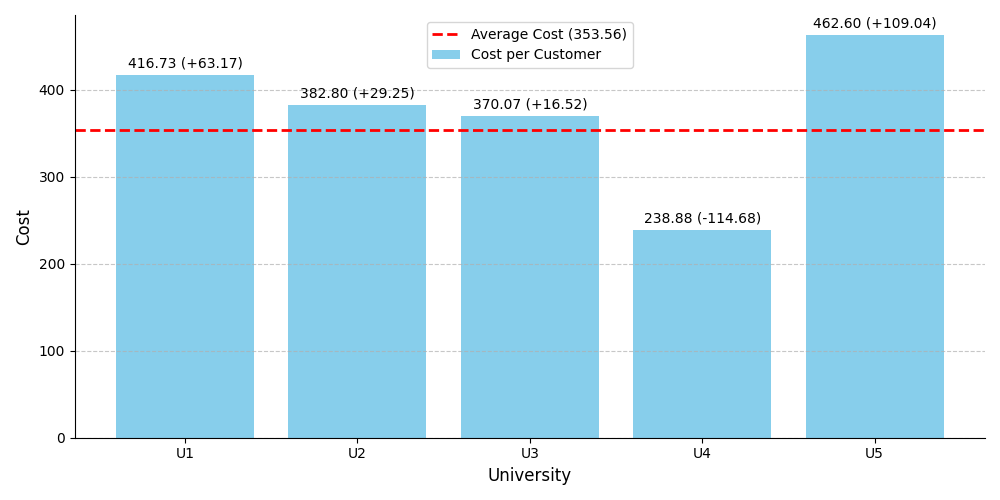
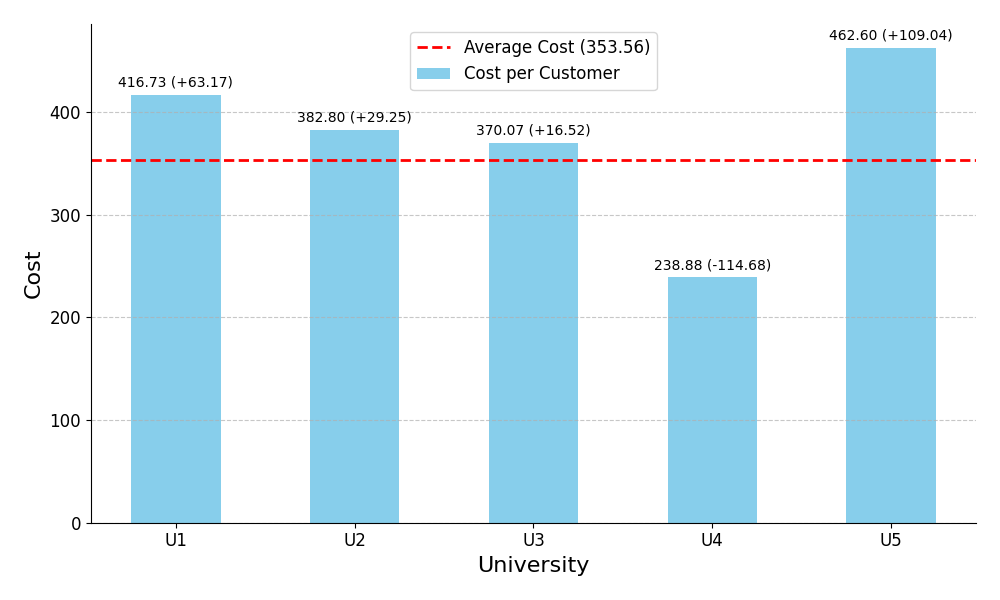
Exercises in 1.2

Changed region(s): [[0.031, 0.03, 0.992, 0.96], [0.403, 0.03, 0.651, 0.15], [0.0, 0.42, 0.062, 0.51]]

diff --git a/main.py b/main.py
@@ -2,7 +2,7 @@ from DataLoading import *
 from InitialCostModel import costModel_complete
 from Initial_Cost_Model_simple import costModel_PW_WU
 from CostsCalc import Costs
-from allocateCosts import allocateCost
+from allocateCosts import AllocateCost
 from Collab_2_1_b_c import collaboration
 from compete_2_2 import Competition
 import time
@@ -13,9 +13,8 @@ vCost = varCost('./given_data/variablecosts.xlsx')
 fCost = fixedCost('./given_data/fixedcosts.xlsx') 
 # demandData.printFile()
 
-# start = time.time()
 
-simpleModel = costModel_PW_WU(
+model_UB = costModel_PW_WU(
     W = demandData.W[:2],  ## Removes the cross docks
     P = demandData.P,
     cap = demandData.capacity,
@@ -27,89 +26,134 @@ simpleModel = costModel_PW_WU(
     supply = demandData.supply
 )
 
-model  = simpleModel.model()
+model  = model_UB.model()
+model_UB.summarize_results()
+
+model_UB.visualize_network(model)
 
 """
 1.2a - COMPARE INDIVIDUAL UNIVERSITIES WITH THE SOLUTION OF ALL UNIVERSITIES
 """
-U = simpleModel.U
-uni_costs = {key: 0 for key in U + ['Total']}
+U = model_UB.U
+modelCosts = Costs(model_UB)
+uni_costs = {key: 0 for key in U}
 for u in U:
-    simpleModel.set_U([u])
-    model_one_uni = simpleModel.model()
-    obj = model_one_uni.ObjVal
+    obj = modelCosts.calculateCostPerUniversity(u)
     uni_costs[u] = obj
 
-uni_costs['Total'] = model.objVal
+modelCosts.costs_per_uni = uni_costs
 
-uni_numbers = [key for key in uni_costs if isinstance(key, int)]
+
+uni_numbers = [key for key in uni_costs]
 uni_values = [uni_costs[key] for key in uni_numbers]
-uni_numbers = [simpleModel.map_pwu(num) for num in uni_numbers]
-total_cost = uni_costs['Total']
+uni_numbers = [model_UB.map_pwu(num) for num in uni_numbers]
+total_cost = model.objVal
 average_cost = total_cost / len(uni_numbers)
 
-# Plotting
-plt.figure(figsize=(10,5))
+# Plotting the single university costs and comparing them to total_cost*0.2 (i.e. expected average)
+plt.rcParams.update({'font.size': 16})
 
-# Bar plot for university costs
-bars = plt.bar(uni_numbers, uni_values, color='skyblue', label='Cost per Customer')
-
-# Dashed line for average cost
+plt.figure(figsize=(10,6))
+bars = plt.bar(uni_numbers, uni_values, color='skyblue', label='Cost per Customer', width=0.5)
 plt.axhline(y=average_cost, color='red', linestyle='--', linewidth=2, label=f'Average Cost ({average_cost:.2f})')
 
-# Add data labels for deviation
 for bar, cost in zip(bars, uni_values):
     deviation = cost - average_cost
     deviation_label = f'{cost:.2f} ({deviation:+.2f})'
     plt.text(bar.get_x() + bar.get_width() / 2, bar.get_height() + 5, deviation_label, 
              ha='center', va='bottom', fontsize=10, color='black')
 
-# Adding labels and title
-plt.xlabel('University', fontsize=12)
-plt.ylabel('Cost', fontsize=12)
-plt.xticks(uni_numbers, fontsize=10)
-plt.yticks(fontsize=10)
+plt.xlabel('University')
+plt.ylabel('Cost')
+plt.xticks(uni_numbers, fontsize=12)
+plt.yticks(fontsize=12)
 
 ax = plt.gca()
 
 ax.spines['top'].set_visible(False)
 ax.spines['right'].set_visible(False)
 
-plt.legend(fontsize=10)
+plt.legend(fontsize=12)
 
-# Show grid for better visualization
 plt.grid(axis='y', linestyle='--', alpha=0.7)
-
-# Show the plot
 plt.tight_layout()
 plt.savefig('figures/universities_of_total.png')
 plt.show()
-# simpleModel.set_U(U)
-# # simpleModel.summarize_results()
 
-# #simpleModel.visualize_results()
-# simpleModel.visualize_network(model)
+model_UB.set_U(U)
 
-# end = time.time()
+"""
+# 1.2c - Fairly distribute savings accross all universities
+# """
+# def distributeCosts(company, model):
+#     shapleyValues = AllocateCost(demandData.U, company)
+#     print(shapleyValues.shapleySavings)
 
-# print(f'Time for Model: {(end-start)}')
+#     data = pd.DataFrame({
+#         "University": [model.map_pwu(u) for u in demandData.U],
+#         "Initial Cost": list(shapleyValues.aloneCosts.values()),
+#         "Shapley Cost": list(shapleyValues.shapleyCosts.values())
+#     })
+#     data["Savings"] = data["Initial Cost"] - data["Shapley Cost"]
+#     data["% Savings"] = (data["Savings"] / data["Initial Cost"]) * 100
 
-# modelCosts = Costs(simpleModel)
+#     print(data.round(2))
 
-# uniCosts = pd.DataFrame(modelCosts.U_Costs).transpose()
-# uniCosts.columns = ['Total Cost', 'Printer To Warehouse', 'Warehouse to University']
+#     return data
 
-# print(uniCosts)
-# print(f'Total Costs from all Universities = {round(uniCosts["Total Cost"].sum(),0)}')
-# print(f'Total Model Costs = {round(modelCosts.modelCost,0)}')
-
-
-# # 1.2 Allocate Costs ##
-
-# shapleyValues_UB = allocateCost(demandData.U)
-# print(shapleyValues_UB.shapleyValues)
+# UB_costs_table = distributeCosts('UB', model_UB)
 
 
+# """
+# 1.2e - cost allocation for Book Import SE
+# """
+# model_BI = costModel_PW_WU(
+#     W = demandData.W[2:],  # Keep only cross-docks
+#     P = demandData.P,
+#     cap = demandData.capacity,
+#     U = demandData.U,
+#     K = demandData.K,
+#     c = vCost.varCost,
+#     f = fCost.fixedCost,
+#     demand = demandData.demand,
+#     supply = demandData.supply
+# )
+
+# model  = model_BI.model()
+# model_BI.summarize_results()
+
+# model_BI.visualize_network(model)
+
+# modelCosts_BI = Costs(model_BI)
+
+# BI_costs_table = distributeCosts('BI', model_BI)
+
+
+# universities = ["U1", "U2", "U3", "U4", "U5"]
+
+# x = np.arange(len(universities))  # Positions for universities
+# width = 0.3  # Width of the bars
+
+# fig, ax = plt.subplots(figsize=(10, 6))
+
+# uni_books = UB_costs_table['Shapley Cost']
+# book_import = BI_costs_table['Shapley Cost']
+# # Bars for Company A and Company B
+# bar1 = ax.bar(x - width/2, uni_books, width, label='Uni Books B.V.', color='skyblue', alpha=0.7)
+# bar2 = ax.bar(x + width/2, book_import, width, label='Book Import SE', color='lightcoral', alpha=0.7)
+
+# ax.set_xlabel("University")
+# ax.set_ylabel("Shapley Costs")
+# ax.set_xticks(x)
+# ax.set_xticklabels(universities)
+# ax.legend()
+
+# ax.spines['top'].set_visible(False)
+# ax.spines['right'].set_visible(False)
+
+# plt.tight_layout()
+# plt.savefig('figures/company_price_comparison.png')
+# plt.show()
 ## 2.1 Collaboration ##
 
 #shapelys = collaboration(demandData,vCost,fCost)
@@ -117,5 +161,5 @@ plt.show()
 
 # 2.2 Competition ##
 
-bestResponse = Competition()
-bestResponse.bestResponseUBFirst()
+#bestResponse = Competition()
+#bestResponse.bestResponseUBFirst()

diff --git a/allocateCosts.py b/allocateCosts.py
@@ -7,9 +7,11 @@ from CostsCalc import Costs
 
 
 
-class allocateCost():
-    def __init__(self,U):
+class AllocateCost:
+    # Company is either 'UB' - Uni Books or 'BI' - Book Import. It is used to understand which warehouses to utilize.
+    def __init__(self,U,company):
         self.U = U
+        self.company = company
         self.allPermutations = list(permutations(U))
 
         self.costDict = {}
@@ -22,17 +24,21 @@ class allocateCost():
         self.vCost = varCost('./given_data/variablecosts.xlsx')
         self.fCost = fixedCost('./given_data/fixedcosts.xlsx') 
 
-        self.shapleyValues = self.getShapleyValues()
+        self.shapleySavings = self.getShapleyValues()
 
     def permutationCosts(self):
         
+        if self.company == 'UB':
+            warehouses = self.demandData.W[:2]
+        else: 
+            warehouses = self.demandData.W[2:]
         for permutation in self.allPermutations:
             permutationCost = 0
             marginalDict = {}
             for i in range(len(permutation)):
                 intermeditateU = list(permutation[:i+1])
                 simpleModel = costModel_PW_WU(
-                                                W = self.demandData.W[:2],  ## Removes the cross docks
+                                                W = warehouses,  ## Removes the cross docks
                                                 P = self.demandData.P,
                                                 cap = self.demandData.capacity,
                                                 U = intermeditateU,   ## Change this to which universities you want, give it a list
@@ -54,40 +60,43 @@ class allocateCost():
 
                 self.marginalTable.loc[str(permutation),columnUniv] = marginal
 
-        self.meanMarginals = self.marginalTable.mean(axis=0).to_dict()
+        self.shapleyCosts = self.marginalTable.mean(axis=0).to_dict()
             
     def allUniversityCost(self):
-        self.totalDict = {}
+        self.aloneCosts = {}
+        if self.company == 'UB':
+            warehouses = self.demandData.W[:2]
+        else: 
+            warehouses = self.demandData.W[2:]
         for u in self.U:
-                    simpleModel = costModel_PW_WU(
-                                                W = self.demandData.W[:2],  ## Removes the cross docks
-                                                P = self.demandData.P,
-                                                cap = self.demandData.capacity,
-                                                U = [u],   ## Change this to which universities you want, give it a list
-                                                K = self.demandData.K,
-                                                c = self.vCost.varCost,
-                                                f = self.fCost.fixedCost,
-                                                demand = self.demandData.demand,
-                                                supply = self.demandData.supply
-                                            )
-                    model = simpleModel.model()
-                    cost = model.objVal
-                    self.totalDict[u] = cost
+            simpleModel = costModel_PW_WU(
+                                        W = warehouses,
+                                        P = self.demandData.P,
+                                        cap = self.demandData.capacity,
+                                        U = [u],   ## Change this to which universities you want, give it a list
+                                        K = self.demandData.K,
+                                        c = self.vCost.varCost,
+                                        f = self.fCost.fixedCost,
+                                        demand = self.demandData.demand,
+                                        supply = self.demandData.supply
+                                    )
+            model = simpleModel.model()
+            cost = model.objVal
+            self.aloneCosts[u] = cost
     
     def getShapleyValues(self):
         self.permutationCosts()
         self.allUniversityCost()
 
-        shapleyValues = {}
-        print("MARGINAL", self.marginalTable)
+        print("Shapley costs: ", self.shapleyCosts)
+        savings = {}
         for u in self.U:
-            marginal = self.meanMarginals[u]
-            aloneCost = self.totalDict[u]
+            marginal = self.shapleyCosts[u]
+            aloneCost = self.aloneCosts[u]
 
             saving = aloneCost - marginal
-            shapleyValues[u] = saving
-        print("SHAPELY", shapleyValues)
-        return shapleyValues
+            savings[u] = saving
+        return savings
         
 
         

diff --git a/CostsCalc.py b/CostsCalc.py
@@ -12,43 +12,49 @@ class Costs():
         self.Y_WU = self.modelClass.y_wu_values_all
 
 
-        self.U_Costs = {} 
-        for u in self.modelClass.U:
-            PW_Cost,WU_Cost = self.calculateCostPerUniversity(u)
-            totalUCost = PW_Cost+WU_Cost
+        # self.U_Costs = {} 
+        # for u in self.modelClass.U:
+        #     PW_Cost,WU_Cost = self.calculateCostPerUniversity(u)
+        #     totalUCost = PW_Cost+WU_Cost
 
-            self.U_Costs[u] = [round(totalUCost,2),round(PW_Cost,2),round(WU_Cost,2)]
+        #     self.U_Costs[u] = [round(totalUCost,2),round(PW_Cost,2),round(WU_Cost,2)]
 
 
+    def calculateCostPerUniversity(self, u):
+        model = self.modelClass
+        model.set_U([u])
+        model_one_uni = model.model()
+        obj = model_one_uni.ObjVal
         
+        return obj
 
     
-    def calculateCostPerUniversity(self,u):
+    # def calculateCostPerUniversity(self,u):
 
-        PW_Cost = 0
-        WU_Cost = 0 
+    #     PW_Cost = 0
+    #     WU_Cost = 0 
 
-        for w in self.modelClass.W:
-            # Printers
-            for p in self.modelClass.P:
-                fixedCost = self.modelClass.f[p,w] * self.Y_PW[p,w]
-                varCost = 0
-                for k in self.modelClass.K:
-                    varCost += self.X_PW[p,w,k]
-                varCost = varCost * self.modelClass.c[p,w]
+    #     for w in self.modelClass.W:
+    #         # Printers
+    #         for p in self.modelClass.P:
+    #             fixedCost = self.modelClass.f[p,w] * self.Y_PW[p,w]
+    #             varCost = 0
+    #             for k in self.modelClass.K:
+    #                 varCost += self.X_PW[p,w,k]
+    #             varCost = varCost * self.modelClass.c[p,w]
 
-                PW_Cost += fixedCost + varCost
+    #             PW_Cost += fixedCost + varCost
 
-            # University
-            fixedCost = self.modelClass.f[w,u] * self.Y_WU[w,u]
-            varCost = 0
-            for k in self.modelClass.K:
-                varCost += self.X_WU[w,u,k]
-            varCost = varCost * self.modelClass.c[w,u]
+    #         # University
+    #         fixedCost = self.modelClass.f[w,u] * self.Y_WU[w,u]
+    #         varCost = 0
+    #         for k in self.modelClass.K:
+    #             varCost += self.X_WU[w,u,k]
+    #         varCost = varCost * self.modelClass.c[w,u]
 
-            WU_Cost += fixedCost + varCost
+    #         WU_Cost += fixedCost + varCost
             
-        return PW_Cost,WU_Cost
+    #     return PW_Cost,WU_Cost
 
          
     

diff --git a/compete_2_2.py b/compete_2_2.py
@@ -3,7 +3,7 @@ from DataLoading import *
 from InitialCostModel import costModel_complete
 from Initial_Cost_Model_simple import costModel_PW_WU
 from CostsCalc import Costs
-from allocateCosts import allocateCost
+from allocateCosts import AllocateCost
 import time
 import networkx as nx
 import matplotlib.pyplot as plt
